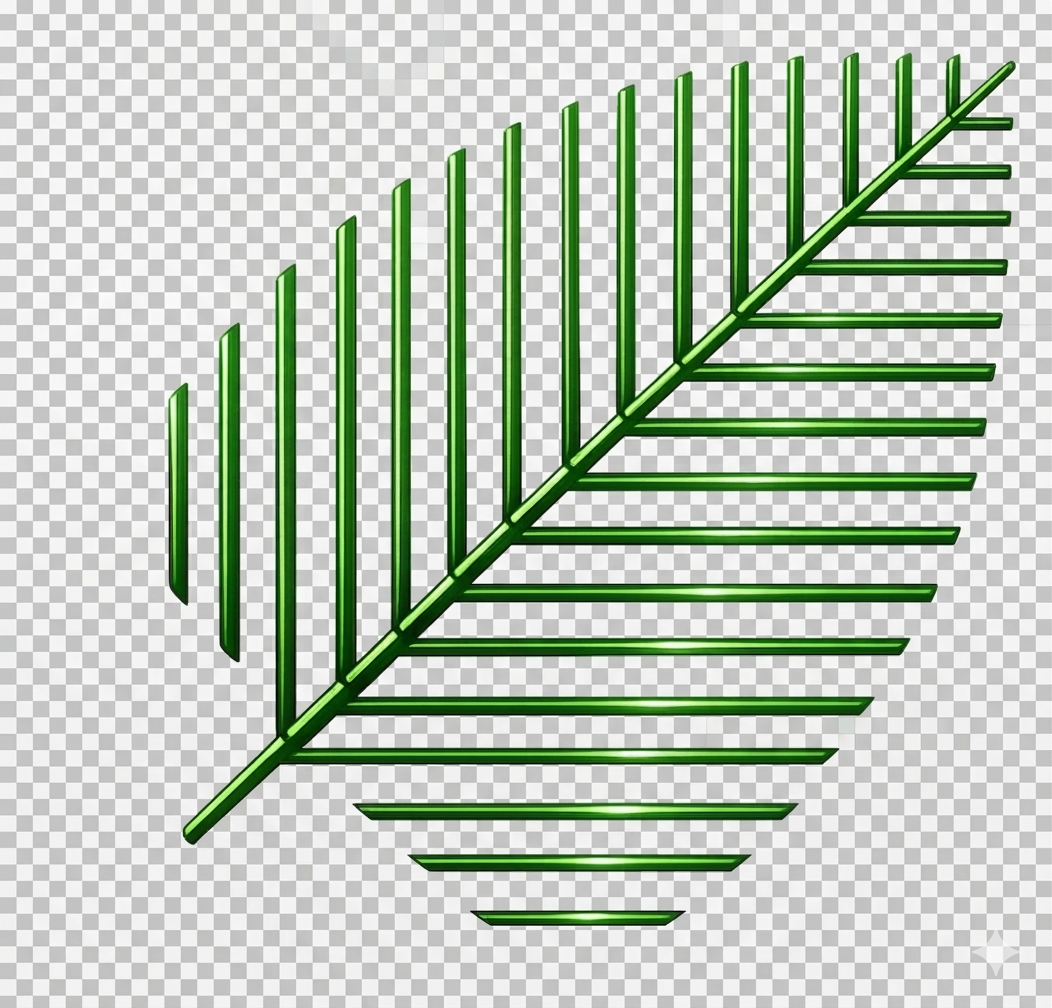
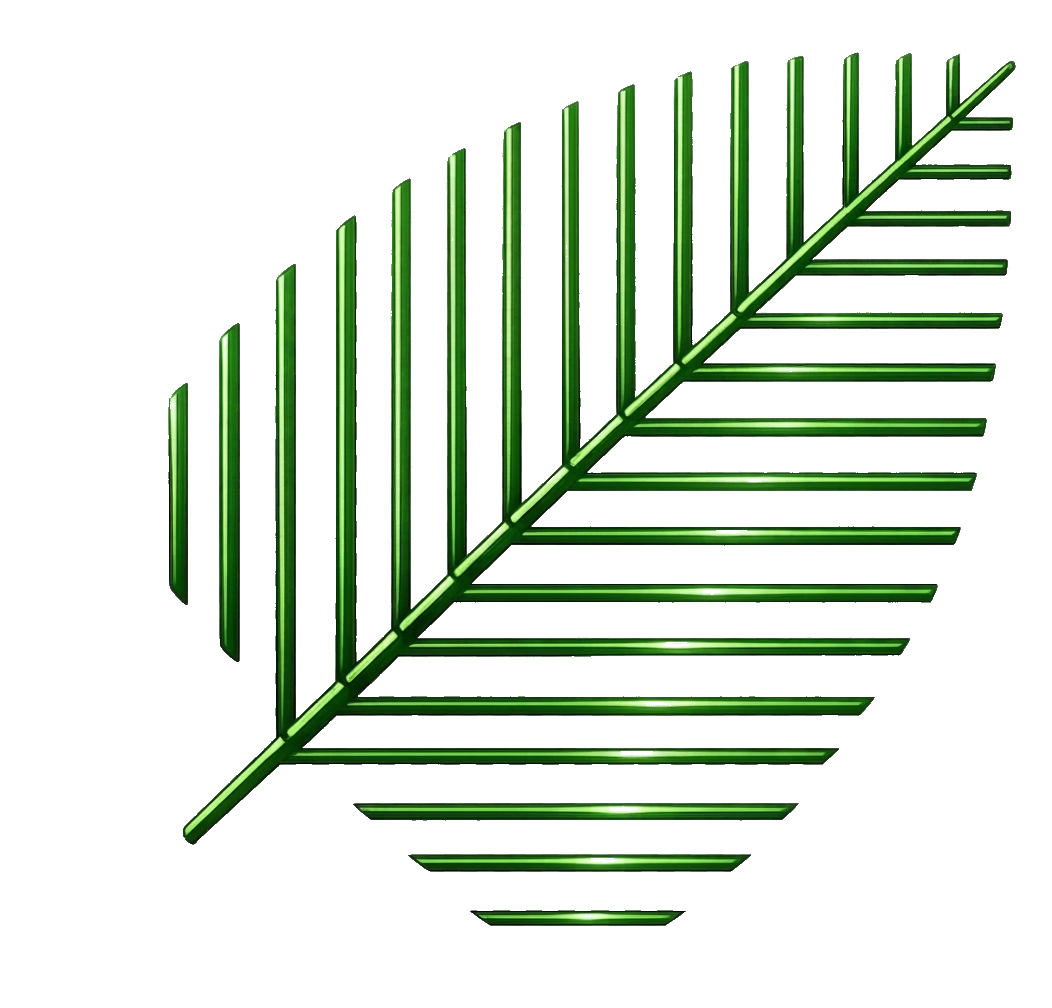
Fixed the brand

diff --git a/src/components/brand/Brand.tsx b/src/components/brand/Brand.tsx
@@ -11,7 +11,7 @@ type BrandProps = {
 };
 
 /**
- * Leaf mark (`/leaf-brand.png`) stacked above ProMassage + CL&AC, centered.
+ * Leaf mark (`/Leaf-brand2.png`, transparent) stacked above ProMassage + CL&AC, centered.
  */
 export default function Brand({
   className,
@@ -52,10 +52,10 @@ export default function Brand({
         .join(" ")}
     >
       <Image
-        src="/leaf-brand2.png"
+        src="/Leaf-brand2.png"
         alt=""
-        width={200}
-        height={200}
+        width={1052}
+        height={1008}
         className={leafClass}
         sizes={
           hero
